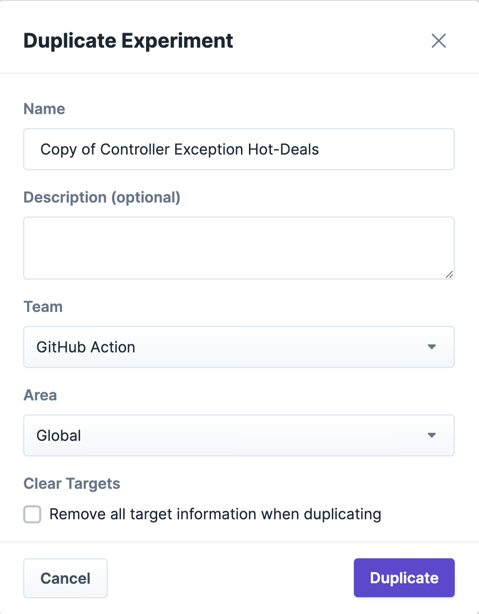
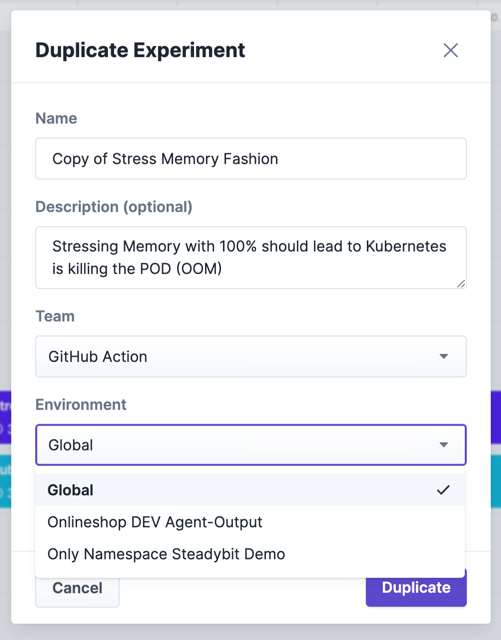
fix: Renamed area to environment

diff --git a/use-steadybit/experiments/duplicate-experiment/README.md b/use-steadybit/experiments/duplicate-experiment/README.md
@@ -20,7 +20,7 @@ If you are on the experiment designer page, you will find a button ![Button](dup
 
 ## Duplicated Experiment
 
-If you have duplicated an experiment, you will be required to edit the experiment by name, description, team and area. 
+If you have duplicated an experiment, you will be required to edit the experiment by name, description, team and environment. 
 
 ![Duplicate Popup](duplicatePopup.png)
 
